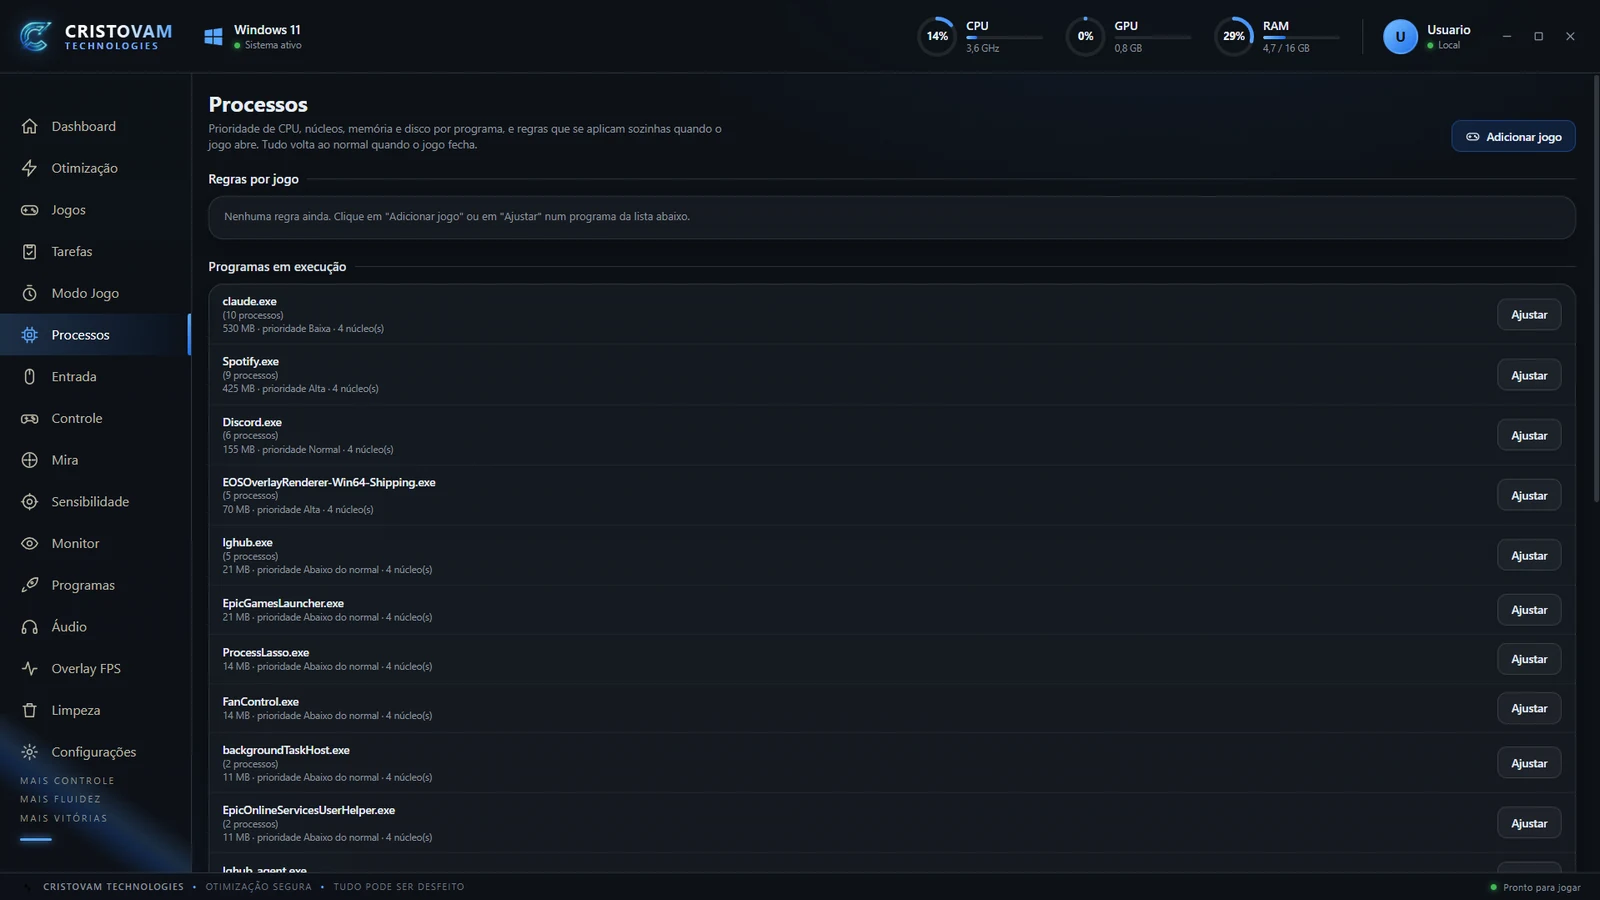
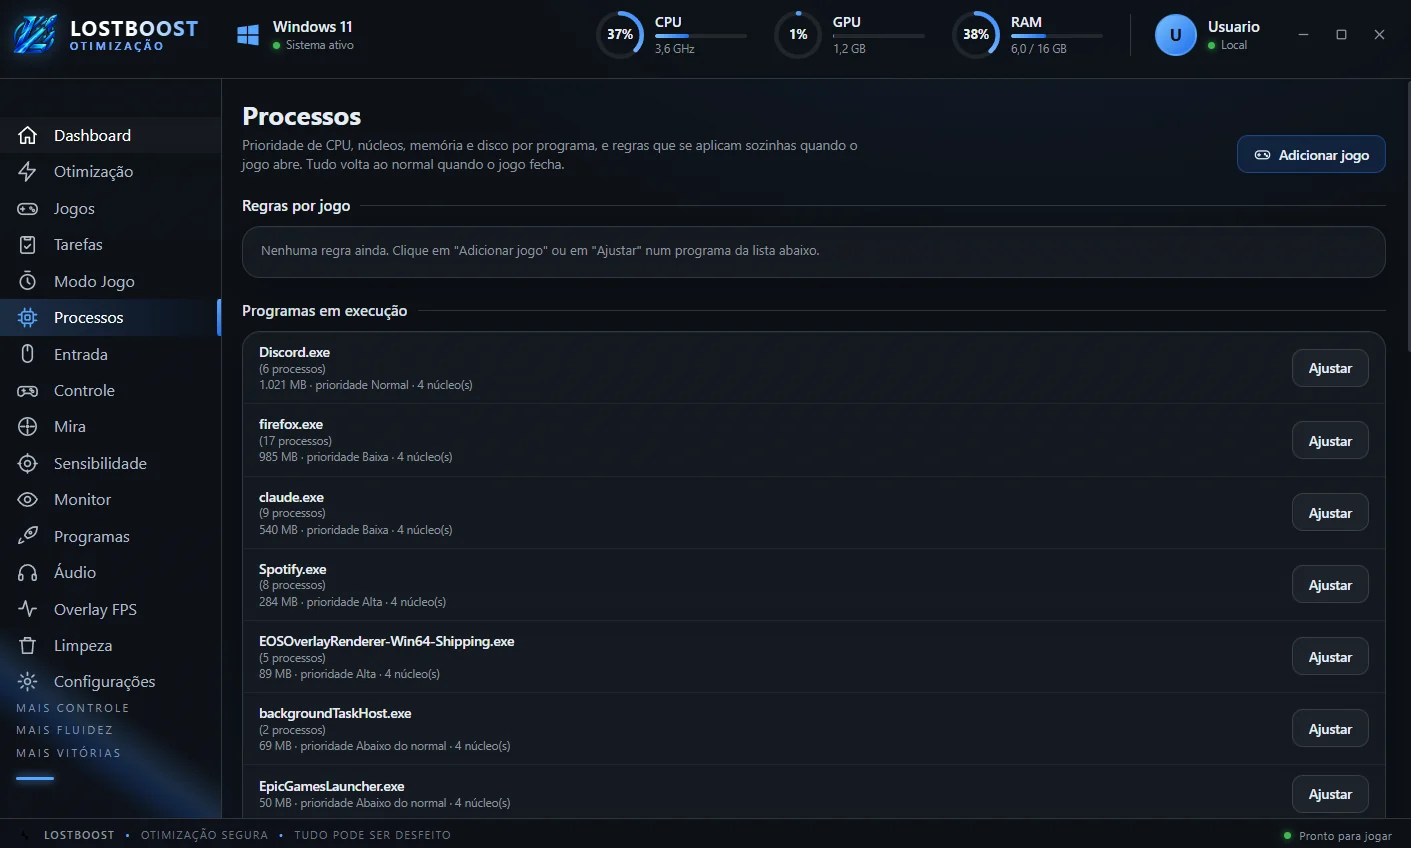
Site: prints novos do app com o nome LostBoost
Troca todos os prints do tour pelos feitos no Windows depois da mudança de
nome, adiciona Tarefas (memória e DNS), histórico do Modo Jogo, Programas,
Áudio, Overlay FPS e Configurações, e remove o print de exceções que ainda
mostrava o nome antigo.

Claude-Session: https://claude.ai/code/session_01A2WHJBw53TS6qfaTC128UT

diff --git a/docs/index.html b/docs/index.html
@@ -209,7 +209,7 @@ footer a:hover{color:var(--text)}
             <li>Ações rápidas (limpar memória, limpar DNS, fechar processos, criar perfil) e a atividade recente</li>
           </ul>
         </div>
-        <div class="shot"><img src="img/dashboard.webp" width="1600" height="1007" loading="lazy" alt="Dashboard do app, com o Modo Gamer ligado, os três cartões de status, as ações rápidas e a atividade recente"></div>
+        <div class="shot"><img src="img/dashboard.webp" width="1425" height="857" loading="lazy" alt="Dashboard do app, com o Modo Gamer ligado, os três cartões de status, as ações rápidas e a atividade recente"></div>
       </article>
       <article class="stop multi">
         <div class="text">
@@ -223,8 +223,8 @@ footer a:hover{color:var(--text)}
           </ul>
         </div>
         <div class="shots">
-          <div class="shot"><img src="img/otimizacao-ajustes.webp" width="1600" height="900" loading="lazy" alt="Tela Otimização, com atalhos do driver da GPU e do Isolamento de núcleo, perfis e os primeiros ajustes de desempenho"></div>
-        <div class="shot"><img src="img/otimizacao-riscos.webp" width="1600" height="961" loading="lazy" alt="Mais ajustes da tela Otimização, cada um com etiqueta de risco e avisos"></div>
+          <div class="shot"><img src="img/otimizacao-ajustes.webp" width="1437" height="858" loading="lazy" alt="Tela Otimização, com atalhos do driver da GPU e do Isolamento de núcleo, perfis e os primeiros ajustes de desempenho"></div>
+        <div class="shot"><img src="img/otimizacao-riscos.webp" width="1196" height="464" loading="lazy" alt="Ajustes de Desempenho da tela Otimização, cada um com etiqueta de risco e avisos"></div>
         </div>
       </article>
       <article class="stop multi">
@@ -240,11 +240,11 @@ footer a:hover{color:var(--text)}
           </ul>
         </div>
         <div class="shots">
-          <div class="shot"><img src="img/jogos.webp" width="1600" height="900" loading="lazy" alt="Tela Jogos, com o medidor de polling rate, o timer do Windows e os ajustes de jogos e input lag"></div>
+          <div class="shot"><img src="img/jogos.webp" width="1418" height="853" loading="lazy" alt="Tela Jogos, com o medidor de polling rate, o timer do Windows e os ajustes de jogos e input lag"></div>
         <div class="shot"><img src="img/jogos-dispositivos.webp" width="1600" height="935" loading="lazy" alt="Dispositivos detectados (mouse, teclado, fone e microfone) e sensores em tempo real"></div>
         </div>
       </article>
-      <article class="stop">
+      <article class="stop multi">
         <div class="text">
           <h3>Tarefas</h3>
           <p>O que roda sozinho para manter o PC leve. Nada é apagado, e você reativa quando quiser.</p>
@@ -253,7 +253,10 @@ footer a:hover{color:var(--text)}
             <li>A limpeza de arquivos programada roda no horário que você marcar, nas categorias que você escolher, e só apaga o que a aba Limpeza também apagaria. A Lixeira nunca é esvaziada sozinha.</li>
           </ul>
         </div>
-        <div class="shot"><img src="img/limpeza-programada.webp" width="1600" height="529" loading="lazy" alt="Parte da tela Tarefas: processos em segundo plano e limpeza de arquivos programada"></div>
+        <div class="shots">
+          <div class="shot"><img src="img/tarefas.webp" width="1413" height="850" loading="lazy" alt="Tela Tarefas, com a limpeza automática de memória e a do cache DNS"></div>
+          <div class="shot"><img src="img/limpeza-programada.webp" width="1600" height="529" loading="lazy" alt="Parte da tela Tarefas: processos em segundo plano e limpeza de arquivos programada"></div>
+        </div>
       </article>
       <article class="stop multi">
         <div class="text">
@@ -269,8 +272,8 @@ footer a:hover{color:var(--text)}
           </ul>
         </div>
         <div class="shots">
-          <div class="shot"><img src="img/modo-jogo-acoes.webp" width="1600" height="895" loading="lazy" alt="Tela Modo Jogo, com as ações que o app aplica quando um jogo abre e as formas de reconhecer um jogo"></div>
-        <div class="shot"><img src="img/modo-jogo-excecoes.webp" width="1600" height="901" loading="lazy" alt="Perfil por jogo, listas de exceção e a opção de tratar um programa como jogo agora"></div>
+          <div class="shot"><img src="img/modo-jogo-historico.webp" width="1416" height="843" loading="lazy" alt="Histórico do Modo Jogo, com cada sessão, duração e temperatura máxima de CPU e GPU"></div>
+          <div class="shot"><img src="img/modo-jogo-acoes.webp" width="1171" height="729" loading="lazy" alt="As ações que o app aplica quando um jogo abre e as formas de reconhecer um jogo"></div>
         </div>
       </article>
       <article class="stop">
@@ -283,7 +286,7 @@ footer a:hover{color:var(--text)}
             <li>Programas em execução: memória, prioridade e núcleos de cada um, com o botão Ajustar</li>
           </ul>
         </div>
-        <div class="shot"><img src="img/processos.webp" width="1600" height="900" loading="lazy" alt="Tela Processos, com as regras por jogo e a lista de programas em execução"></div>
+        <div class="shot"><img src="img/processos.webp" width="1411" height="848" loading="lazy" alt="Tela Processos, com as regras por jogo e a lista de programas em execução"></div>
       </article>
       <article class="stop">
         <div class="text">
@@ -291,7 +294,7 @@ footer a:hover{color:var(--text)}
           <p>O teste do mouse e do teclado. Mostra cada clique e cada tecla com o tempo exato que ficou apertada.</p>
           <p>Serve para achar botão com defeito: o app conta os cliques por segundo e os acionamentos duplos involuntários, que denunciam um switch gasto. Também tem um teste de tempo de reação. Nada é capturado fora da página do teste.</p>
         </div>
-        <div class="shot"><img src="img/entrada.webp" width="1418" height="848" loading="lazy" alt="Teste de entrada do mouse, com contagem de cliques por botão e cliques por segundo"></div>
+        <div class="shot"><img src="img/entrada.webp" width="1391" height="832" loading="lazy" alt="Teste de entrada do mouse, com contagem de cliques por botão e cliques por segundo"></div>
       </article>
       <article class="stop">
         <div class="text">
@@ -299,7 +302,7 @@ footer a:hover{color:var(--text)}
           <p>O mesmo tipo de teste, para o controle: botões, gatilhos e analógicos em tempo real.</p>
           <p>Mostra a deriva (o analógico solto deveria ficar em zero), o alcance do analógico, apertos duplos, a vibração e o tempo de reação. Precisa de um controle conectado, e o navegador só o enxerga depois do primeiro botão apertado.</p>
         </div>
-        <div class="shot"><img src="img/controle.webp" width="1600" height="900" loading="lazy" alt="Teste de controle, ainda sem nenhum controle conectado"></div>
+        <div class="shot"><img src="img/controle.webp" width="1406" height="851" loading="lazy" alt="Teste de controle, ainda sem nenhum controle conectado"></div>
       </article>
       <article class="stop">
         <div class="text">
@@ -307,7 +310,7 @@ footer a:hover{color:var(--text)}
           <p>Um treino de 30 segundos para aquecer e medir a sua consistência de mira, sem abrir o jogo. Há três modos: Gridshot, Flick e Tracking.</p>
           <p>O app guarda o seu recorde. É um treino em tela plana (2D): ele não simula a mira 3D nem a sensibilidade de nenhum jogo.</p>
         </div>
-        <div class="shot"><img src="img/mira.webp" width="1600" height="900" loading="lazy" alt="Treino de mira, no modo Gridshot"></div>
+        <div class="shot"><img src="img/mira.webp" width="1414" height="847" loading="lazy" alt="Treino de mira, no modo Gridshot"></div>
       </article>
       <article class="stop">
         <div class="text">
@@ -315,7 +318,7 @@ footer a:hover{color:var(--text)}
           <p>Leva a mesma mão de um jogo para outro. O app mantém igual a distância que o mouse percorre para dar uma volta completa (360°) e diz a sensibilidade equivalente no jogo de destino.</p>
           <p>Mostra cm por 360° e eDPI, deixa salvar favoritos e também ajuda quem não sabe a própria sensibilidade: você escolhe uma distância e ele mostra o valor em cada jogo.</p>
         </div>
-        <div class="shot"><img src="img/sensibilidade.webp" width="1600" height="900" loading="lazy" alt="Conversor de sensibilidade entre Counter-Strike 2 e Valorant"></div>
+        <div class="shot"><img src="img/sensibilidade.webp" width="1413" height="850" loading="lazy" alt="Conversor de sensibilidade entre Counter-Strike 2 e Valorant"></div>
       </article>
       <article class="stop">
         <div class="text">
@@ -323,28 +326,31 @@ footer a:hover{color:var(--text)}
           <p>Padrões em tela cheia para achar defeitos: cores sólidas para pixels mortos, degradê, sombras e grade. Esc sai do teste.</p>
           <p>Também mede a taxa de atualização real da tela em 4 segundos, com o tempo por quadro e os quadros atrasados. O teste mostra o que você enxerga, e medir o tempo de resposta em milissegundos exige equipamento próprio.</p>
         </div>
-        <div class="shot"><img src="img/monitor.webp" width="1400" height="884" loading="lazy" alt="Teste de monitor com a taxa de atualização e padrões de tela"></div>
+        <div class="shot"><img src="img/monitor.webp" width="1409" height="846" loading="lazy" alt="Teste de monitor com a taxa de atualização e padrões de tela"></div>
       </article>
-      <article class="stop solo">
+      <article class="stop">
         <div class="text">
           <h3>Programas</h3>
           <p>Marque o que quer e instale tudo de uma vez, sem abrir site por site. Usa o winget, o instalador oficial do Windows, e só lista programas conhecidos de fornecedores oficiais. O botão Atualizar tudo cuida das versões.</p>
           <p>A outra aba mostra tudo o que está instalado no PC. Para remover, o app chama o desinstalador do próprio programa.</p>
         </div>
+        <div class="shot"><img src="img/programas.webp" width="1411" height="851" loading="lazy" alt="Tela Programas, com a busca e a lista de programas para instalar, por categoria"></div>
       </article>
-      <article class="stop solo">
+      <article class="stop">
         <div class="text">
           <h3>Áudio</h3>
           <p>Escolha o fone e o microfone padrão e ajuste o volume.</p>
           <p>O teste do microfone mostra o nível ao vivo, ou faz um teste guiado de 6 segundos que diz se o volume está bom. O app só lê o volume do sinal enquanto você testa, não grava nada. Ajustes que ficam no driver, como o ganho extra do microfone, têm atalho para a janela certa do Windows.</p>
         </div>
+        <div class="shot"><img src="img/audio.webp" width="1410" height="850" loading="lazy" alt="Tela Áudio, com fone e microfone padrão, volume e teste do microfone"></div>
       </article>
-      <article class="stop solo">
+      <article class="stop">
         <div class="text">
           <h3>Overlay FPS</h3>
           <p>Mostra FPS, 1% low (o seu pior 1% de quadros, que revela as travadas) e uso do PC por cima do jogo, sem injetar nada nele.</p>
           <p>Os números vêm do PresentMon, ferramenta aberta da Intel que só observa o que o Windows registra. Você escolhe posição, tamanho e opacidade, e o overlay aparece sozinho quando um jogo abre e some quando fecha. Funciona em jogos em janela ou janela sem bordas, e em tela cheia exclusiva o Windows pode escondê-lo.</p>
         </div>
+        <div class="shot"><img src="img/overlay-fps.webp" width="1414" height="850" loading="lazy" alt="Tela Overlay de FPS, com posição, tamanho, opacidade e as métricas mostradas"></div>
       </article>
       <article class="stop">
         <div class="text">
@@ -352,16 +358,17 @@ footer a:hover{color:var(--text)}
           <p>Lista o que dá para limpar, com o tamanho de cada item antes de apagar: arquivos temporários do usuário e do Windows, relatórios de erro, miniaturas, cache de shaders, cache dos navegadores e a Lixeira. Você marca o que quer, vê o total selecionado e limpa. Arquivos em uso são ignorados.</p>
           <p>Itens com efeito colateral trazem um aviso na própria linha, como o cache de shaders (o jogo recompila no começo) e a Lixeira (o que está nela se perde de vez). Esta é a única parte que não tem desfazer: o app só mexe nas pastas listadas e nunca em documentos, fotos, senhas ou histórico.</p>
         </div>
-        <div class="shot"><img src="img/limpeza.webp" width="1600" height="899" loading="lazy" alt="Tela Limpeza, com cada item e o tamanho que ocupa antes de apagar"></div>
+        <div class="shot"><img src="img/limpeza.webp" width="1407" height="848" loading="lazy" alt="Tela Limpeza, com cada item e o tamanho que ocupa antes de apagar"></div>
       </article>
-      <article class="stop solo">
+      <article class="stop">
         <div class="text">
           <h3>Configurações</h3>
           <p>Controla o segundo plano: continuar na bandeja ao fechar a janela, e iniciar junto com o Windows já escondido. Mostra também dados do app (versão, se está como administrador, pasta de dados e backups) e o hardware do PC.</p>
         </div>
+        <div class="shot"><img src="img/configuracoes.webp" width="1414" height="849" loading="lazy" alt="Tela Configurações, com as opções de segundo plano e os dados do app"></div>
       </article>
     </div>
-    <p class="caption">Os prints vêm de um PC com Windows, exceto o do Monitor e o do grupo Segurança, que vêm do ambiente de desenvolvimento.</p>
+    <p class="caption">Os prints vêm de um PC com Windows, exceto o do grupo Segurança, que vem do ambiente de desenvolvimento.</p>
 
     <div class="feature" id="seguranca">
       <div class="text">
